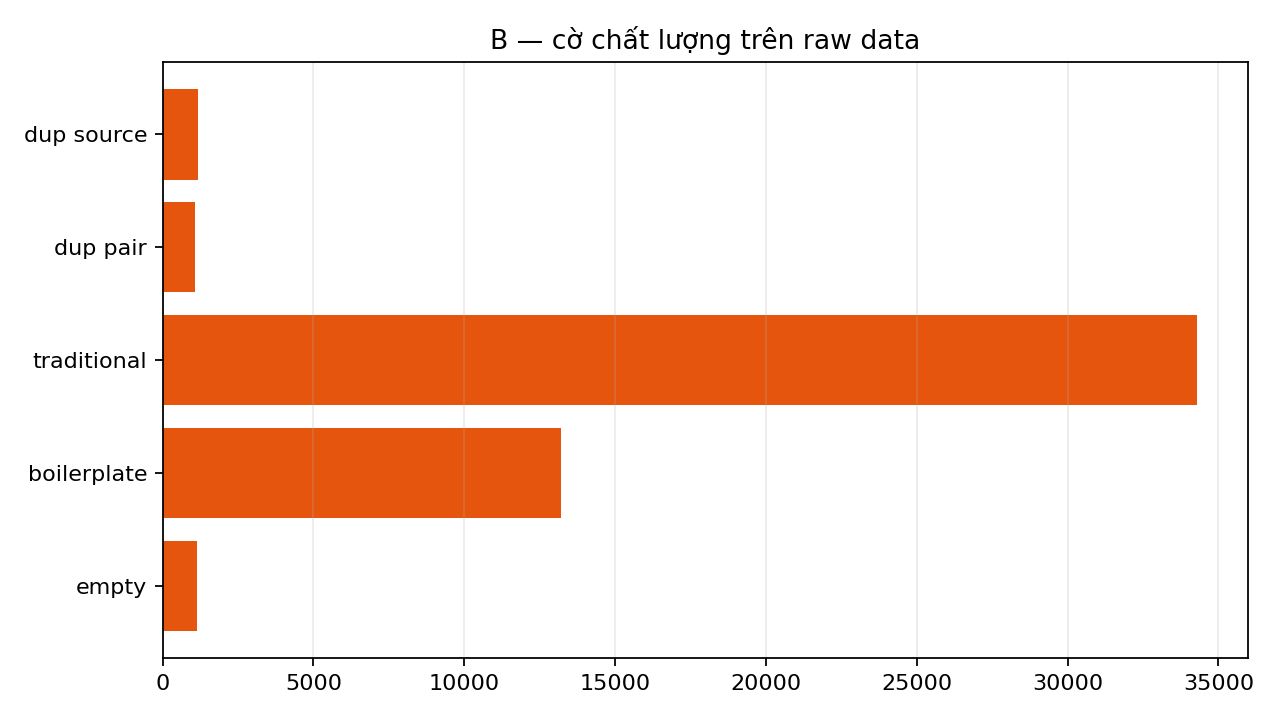
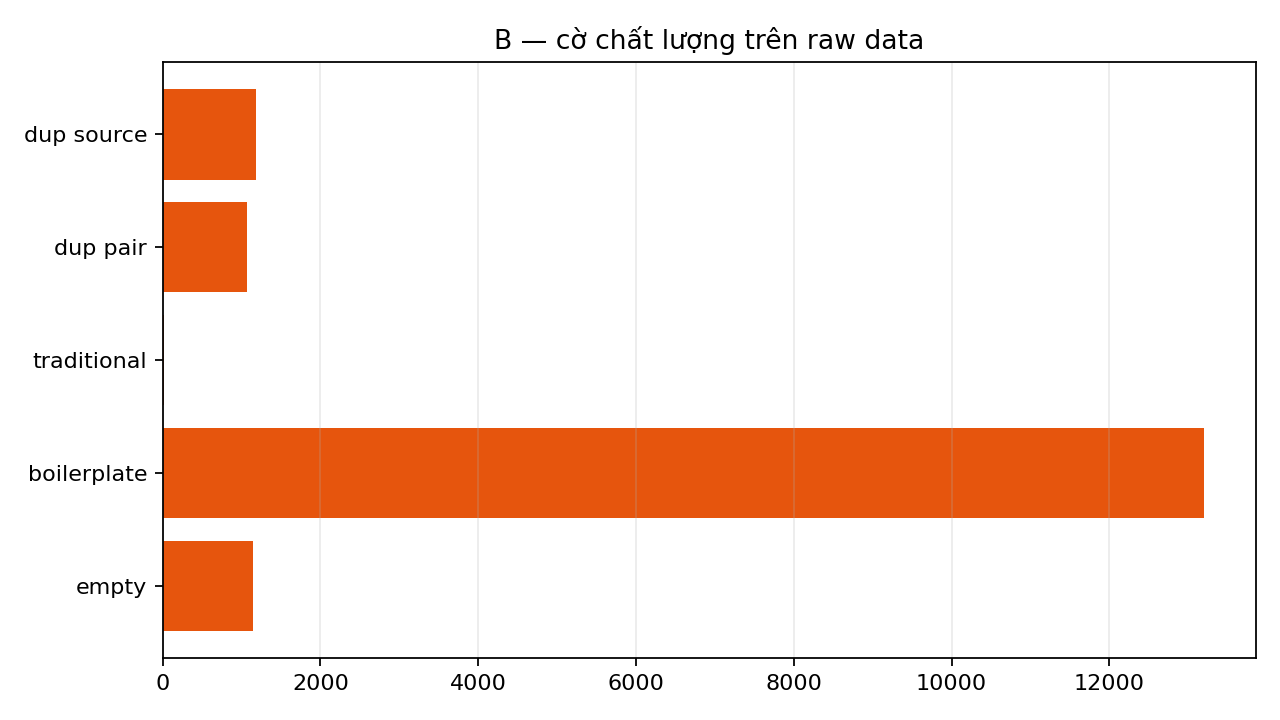
Build final B dataset, EDA A/B with figures and observations

diff --git a/reports/EDA_A_B.md b/reports/EDA_A_B.md
@@ -14,10 +14,10 @@
 
 | group | rows | row % | tokens | token % | median tok | empty | boilerplate | traditional |
 |---|---:|---:|---:|---:|---:|---:|---:|---:|
-| 1688_title | 16,133 | 13.6% | 752,144 | 16.0% | 46.5 | 0 | 0 | 2,791 |
-| 1688_attribute | 73,576 | 62.0% | 3,064,320 | 65.1% | 9.9 | 0 | 0 | 2,202 |
-| tiki_title | 13,057 | 11.0% | 487,867 | 10.4% | 34.6 | 0 | 0 | 3,378 |
-| tiki_attribute | 15,922 | 13.4% | 402,847 | 8.6% | 8.8 | 0 | 0 | 1,377 |
+| 1688_title | 16,133 | 13.6% | 752,144 | 16.0% | 46.5 | 0 | 0 | 5 |
+| 1688_attribute | 73,576 | 62.0% | 3,064,320 | 65.1% | 9.9 | 0 | 0 | 2 |
+| tiki_title | 13,057 | 11.0% | 487,867 | 10.4% | 34.6 | 0 | 0 | 1 |
+| tiki_attribute | 15,922 | 13.4% | 402,847 | 8.6% | 8.8 | 0 | 0 | 0 |
 
 Split: `{'train': 103807, 'dev': 7561, 'test': 7320}`; 0 product overlap train/test.
 
@@ -43,10 +43,10 @@ Split: `{'train': 103807, 'dev': 7561, 'test': 7320}`; 0 product overlap train/t
 
 | group | rows | row % | tokens | token % | median tok | empty | boilerplate | traditional |
 |---|---:|---:|---:|---:|---:|---:|---:|---:|
-| 1688_title | 16,133 | 27.3% | 752,144 | 5.1% | 46.5 | 0 | 0 | 2,791 |
-| 1688_description | 16,819 | 28.4% | 8,258,465 | 56.6% | 472.5 | 0 | 0 | 16,323 |
-| tiki_title | 13,057 | 22.1% | 487,867 | 3.3% | 34.6 | 0 | 0 | 3,378 |
-| tiki_description | 13,200 | 22.3% | 5,099,780 | 34.9% | 340.6 | 1,150 | 13,199 | 11,788 |
+| 1688_title | 16,133 | 27.3% | 752,144 | 5.1% | 46.5 | 0 | 0 | 5 |
+| 1688_description | 16,819 | 28.4% | 8,258,465 | 56.6% | 472.5 | 0 | 0 | 2 |
+| tiki_title | 13,057 | 22.1% | 487,867 | 3.3% | 34.6 | 0 | 0 | 1 |
+| tiki_description | 13,200 | 22.3% | 5,099,780 | 34.9% | 340.6 | 1,150 | 13,199 | 12 |
 
 Split: `{'train': 50544, 'dev': 4408, 'test': 4257}`; 0 product overlap train/test.
 
